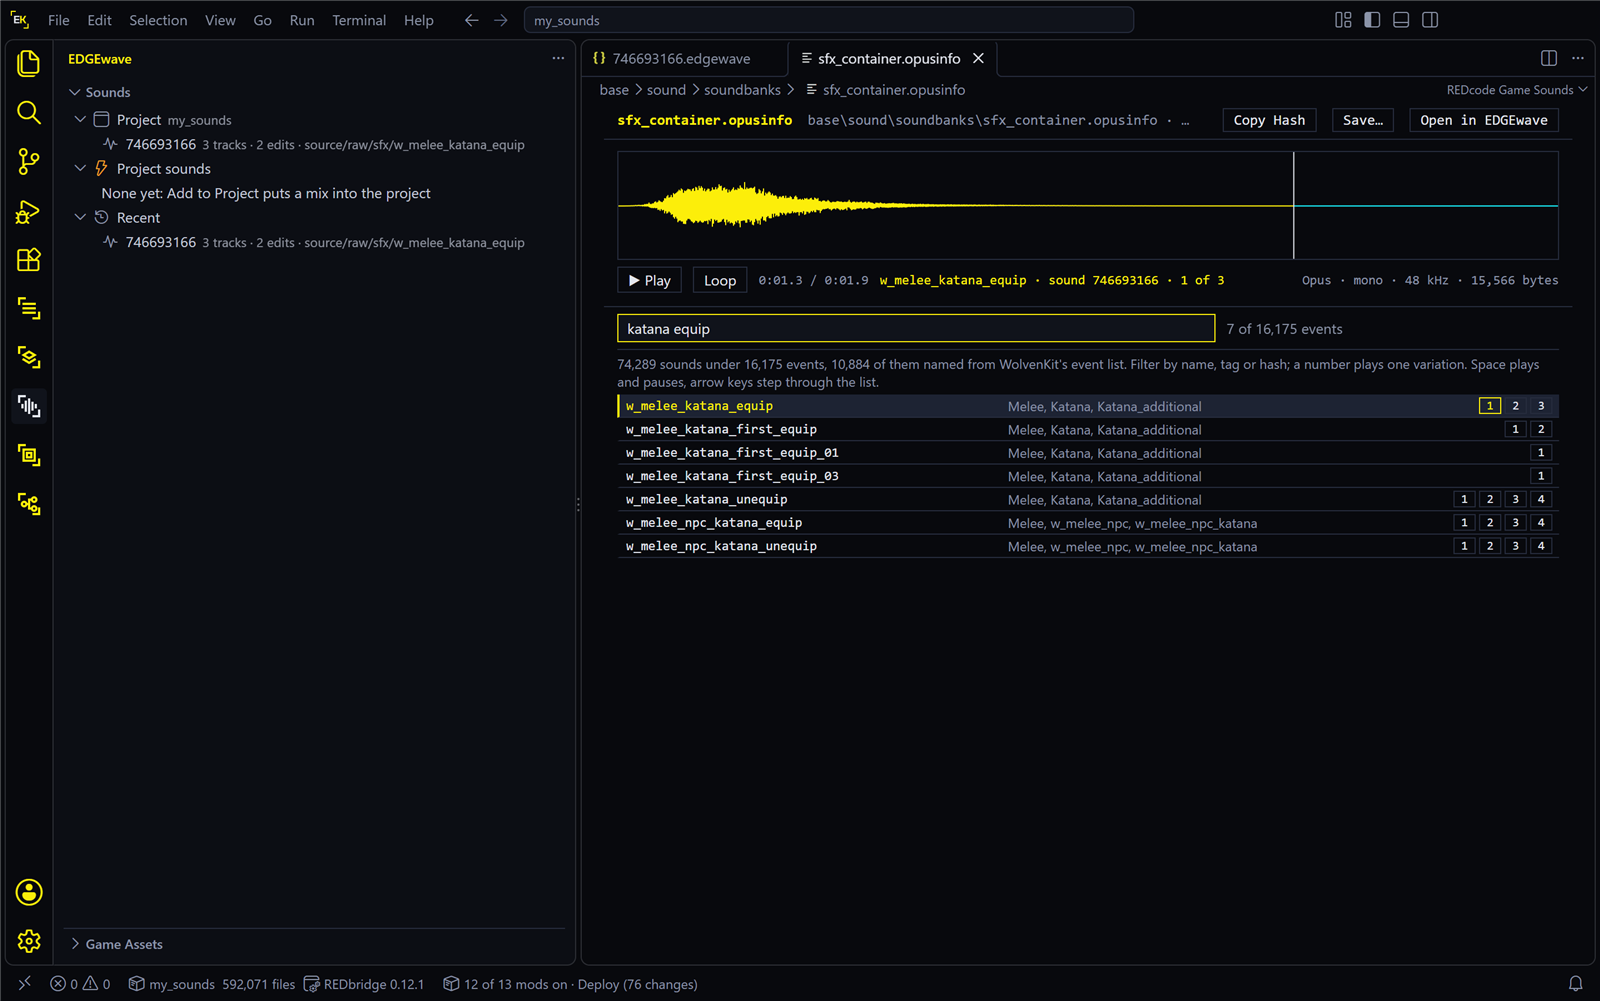
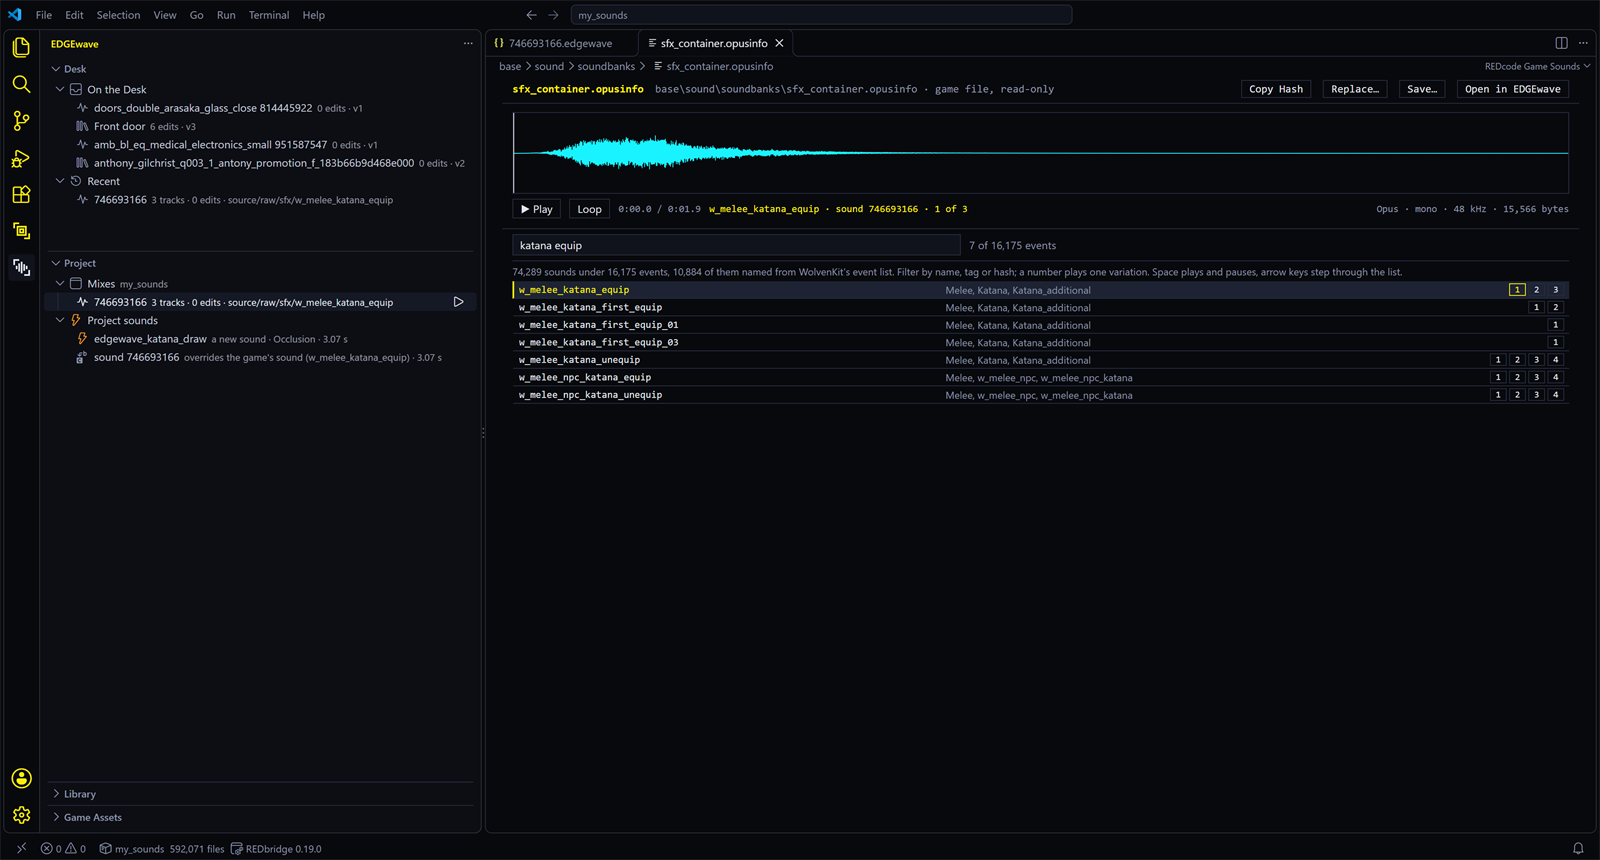
Wiki: EDGEwave's screenshots for 0.3.0 (the Desk, Project and Library views in place of the Sounds view)
Taken in a scripted VS Code with REDcode 0.10.16 and the owner's game, maximized.

diff --git a/docs/assets/dashboard/status.js b/docs/assets/dashboard/status.js
@@ -2004,8 +2004,7 @@ window.EDGE_STATUS ={
    ],
    "ownerActions": [
     "Say whether to build Add to Project's Pick a game sound to replace… row next",
-    "Say whether to file requests: REDcode's Library view buttons for sounds; Reveal in File Explorer wording for EDGEdeck and EDGEmat",
-    "New wiki screenshots: tutorial-katana-event.png and finding-open-in-edgewave.png still show the Sounds view, which 0.3.0 split into the Desk, Project and Library views"
+    "Say whether to file requests: REDcode's Library view buttons for sounds; Reveal in File Explorer wording for EDGEdeck and EDGEmat"
    ],
    "risks": [
     "Voice lines have no route into the game yet (the .wem route)"

diff --git a/docs/dashboard.html b/docs/dashboard.html
@@ -203,7 +203,7 @@ pre.how { background: #05060a; border: 1px solid var(--line); padding: 12px 14px
 </div>
 <div id="tip" role="tooltip"></div>
 
-<script src="assets/dashboard/status.js?v=243"></script>
+<script src="assets/dashboard/status.js?v=244"></script>
 <script>
 (function () {
   var S = window.EDGE_STATUS;

diff --git a/docs/wiki/edgewave/finding.md b/docs/wiki/edgewave/finding.md
@@ -57,7 +57,7 @@ Move the mouse over a sound and buttons appear on its row. Right-click it for th
 
 **▶** plays through Windows' default sound output. If it can't play a sound, a message says why and offers the Hear tab.
 
-{% include shot.html caption="Game Assets" src="/assets/shots/edgewave/tutorial-katana-event.png" alt="EDGEwave's side bar with the Sounds view on top and Game Assets below, filtered by katana equip: Sound effects with w_melee_katana_equip opened into Variation 1, 2 and 3 with their numbers, and the play, add and open buttons on the hovered row." shows="EDGEwave's sidebar with the Sounds view on top and Game Assets below it: Sound effects unfolded to an event with three variations, Voice lines and Music and streamed sounds folded, and the play, add and open buttons on the hovered row." %}
+{% include shot.html caption="Game Assets" src="/assets/shots/edgewave/tutorial-katana-event.png" alt="EDGEwave's side bar with the Desk and the Project view on top, the Library folded, and Game Assets below, filtered by katana equip: Sound effects with w_melee_katana_equip opened into Variation 1, 2 and 3 with their numbers, and the play, add and open buttons on the hovered row. The katana mix is open in the editor." shows="EDGEwave's sidebar with the Desk and Project views on top and Game Assets below it: Sound effects unfolded to an event with three variations, Voice lines and Music and streamed sounds folded, and the play, add and open buttons on the hovered row." %}
 
 ## Filter
 
@@ -98,7 +98,7 @@ Opening a sound makes a **sound document** for it, a `.edgewave` file in your pr
 
 To add a sound to a mix you already have open, use **+** instead: see [Tracks](editing.html#tracks).
 
-{% include shot.html caption="The Sounds view and Open in EDGEwave" src="/assets/shots/edgewave/finding-open-in-edgewave.png" alt="REDcode's sound browser filtered by katana equip with the Open in EDGEwave button at its top right, and EDGEwave's Sounds view in the side bar listing the project's sound document." shows="REDcode's sound browser with the Open in EDGEwave button, and EDGEwave's Sounds view in the activity bar listing two sound documents." %}
+{% include shot.html caption="Open in EDGEwave, and the mix in the Project view" src="/assets/shots/edgewave/finding-open-in-edgewave.png" alt="REDcode's sound browser filtered by katana equip, w_melee_katana_equip's first variation picked, with the Open in EDGEwave button at its top right; in the side bar, EDGEwave's Desk with its sounds and Recent, and the Project view listing the project's mix and its two project sounds." shows="REDcode's sound browser with the Open in EDGEwave button, and EDGEwave's Desk and Project views in the side bar listing the project's mix." %}
 
 ## A new, empty sound
 
@@ -218,4 +218,4 @@ The [EDGE Library](../library.html) is one folder of your own that every EDGE to
 
 **Set the Library Folder...**, in the title bar, picks another folder.
 
-{% include shot.html caption="The Desk, Project and Library views" shows="EDGEwave's side bar with the Desk (a sound or two, one with its ▶ and Add to Library buttons on hover, and Recent below), the Project view (Mixes and Project sounds), the Library view with a folder unfolded, and Game Assets below." %}
+{% include shot.html caption="The Desk, Project and Library views" src="/assets/shots/edgewave/finding-desk-project-library.png" alt="EDGEwave's side bar: the Desk with four sounds, the first hovered with its play and Add to Library buttons, and Recent below; the Project view with the katana mix under Mixes and two Project sounds; the Library with Sounds, then Doors unfolded to a sound item, Front door v3, and a plain sound file; Game Assets folded below. The katana mix is open in the editor." shows="EDGEwave's side bar with the Desk (a sound or two, one with its ▶ and Add to Library buttons on hover, and Recent below), the Project view (Mixes and Project sounds), the Library view with a folder unfolded, and Game Assets below." %}

diff --git a/docs/wiki/edgewave/tutorial.md b/docs/wiki/edgewave/tutorial.md
@@ -61,7 +61,7 @@ Leave the project open. EDGEwave saves into the project REDcode has open.
 
 Press **▶** on each variation to hear how they differ.
 
-{% include shot.html caption="The katana's event in Game Assets" src="/assets/shots/edgewave/tutorial-katana-event.png" alt="EDGEwave's side bar with the Sounds view on top and Game Assets below, filtered by katana equip: Sound effects with w_melee_katana_equip opened into Variation 1, 2 and 3 with their numbers, and the play, add and open buttons on the hovered row." shows="EDGEwave's Game Assets view filtered by 'katana equip': the Sound effects group with w_melee_katana_equip unfolded into Variation 1, 2 and 3 with their hashes, and the play, add and open buttons showing on the hovered row." %}
+{% include shot.html caption="The katana's event in Game Assets" src="/assets/shots/edgewave/tutorial-katana-event.png" alt="EDGEwave's side bar with the Desk and the Project view on top, the Library folded, and Game Assets below, filtered by katana equip: Sound effects with w_melee_katana_equip opened into Variation 1, 2 and 3 with their numbers, and the play, add and open buttons on the hovered row. The katana mix is open in the editor." shows="EDGEwave's Game Assets view filtered by 'katana equip': the Sound effects group with w_melee_katana_equip unfolded into Variation 1, 2 and 3 with their hashes, and the play, add and open buttons showing on the hovered row." %}
 
 ## 3. Open it
 
